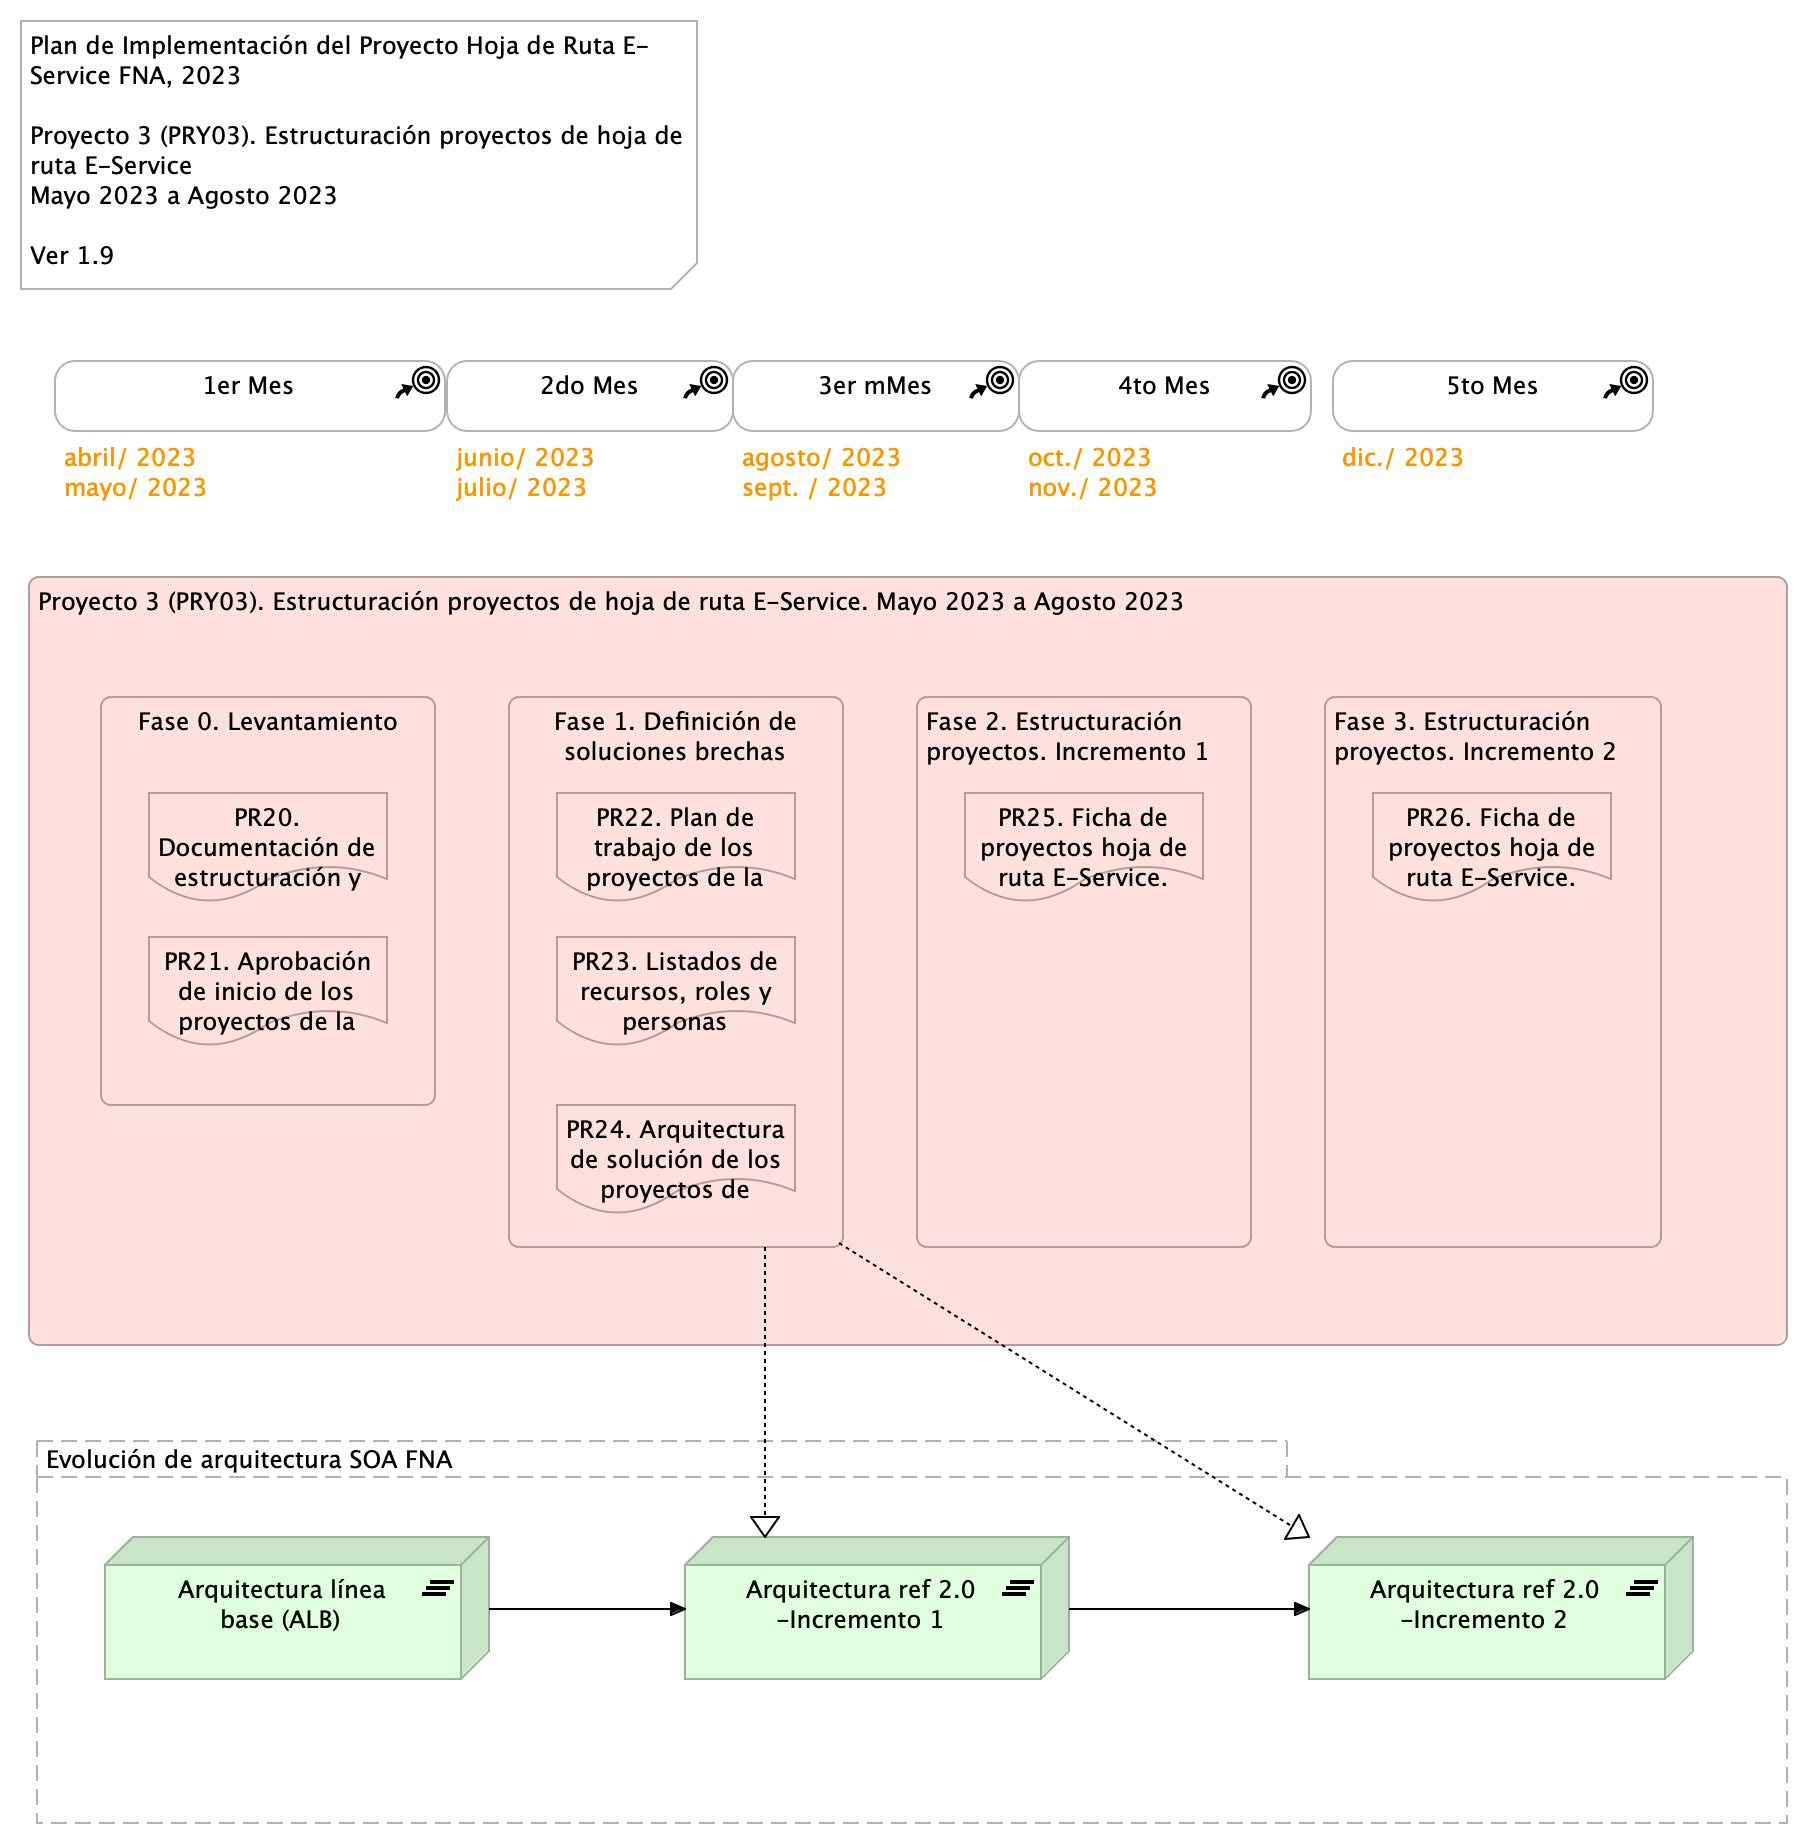
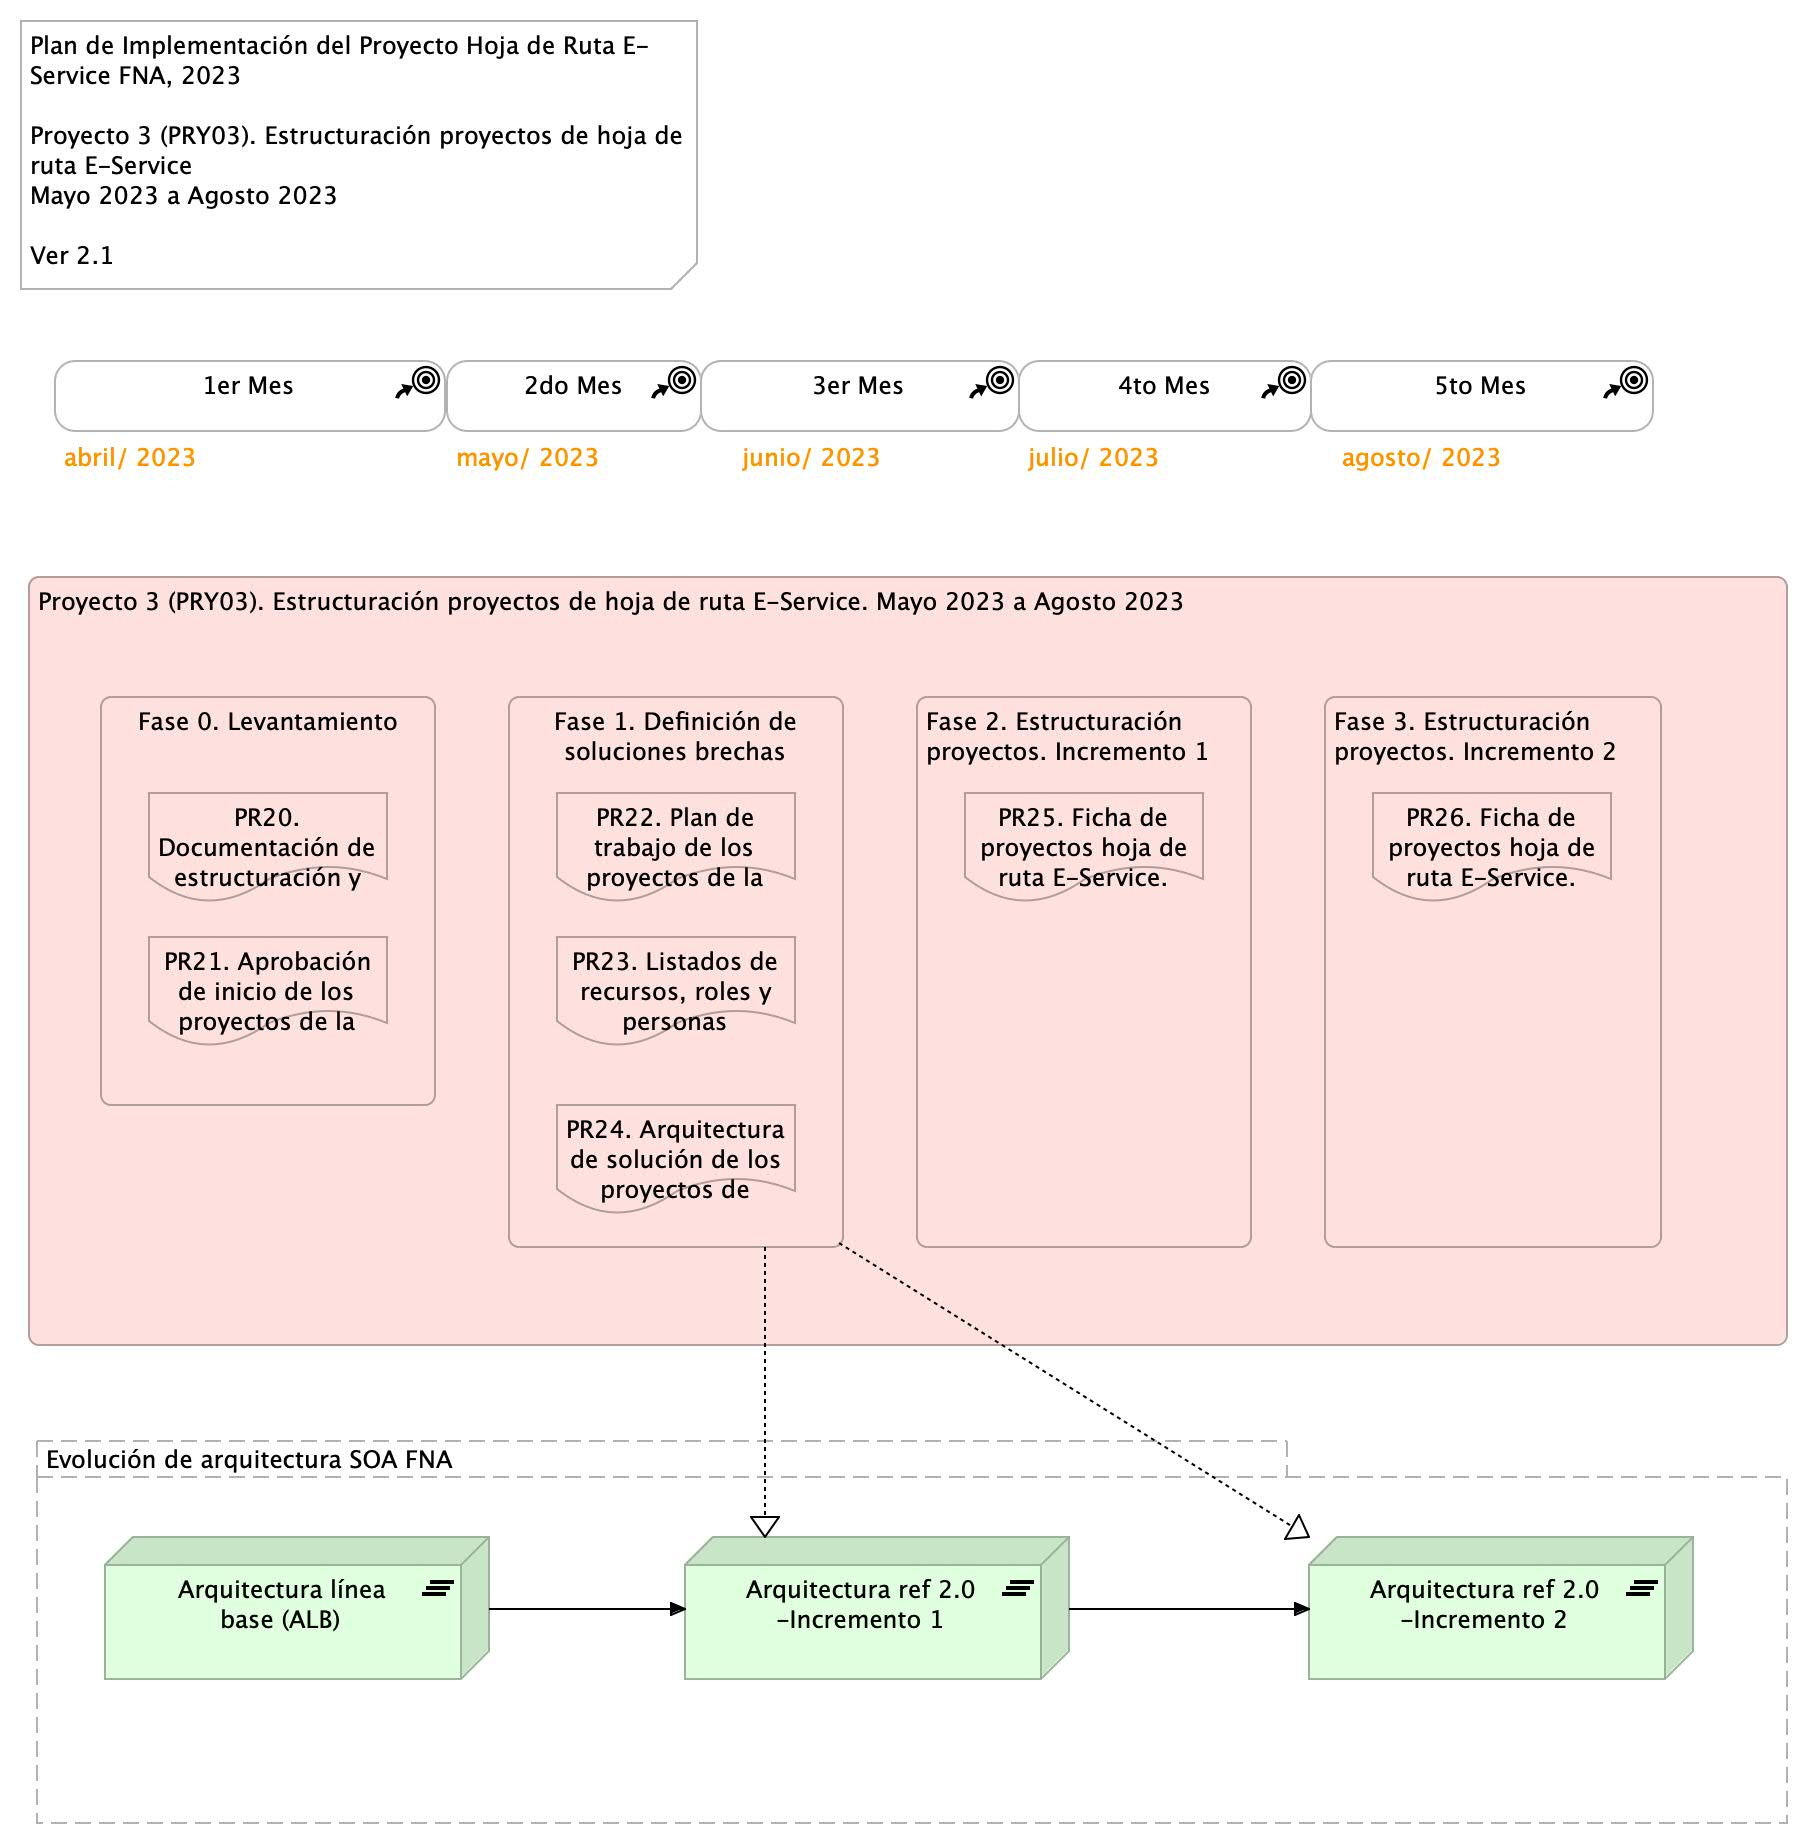
plangeneral

diff --git a/content/02d.plangeneral.md b/content/02d.plangeneral.md
@@ -11,14 +11,14 @@ La planeación general no contiene fases ni entregables. En su lugar, cada proye
 
 ![](images/plangeneral1.png)
 
-[Imagen.]() Vista de tiempo de ejecución del proyecto 01 de cierre de brecha de la hoja de ruta E-Service consignados en el alcance de esta propuesta, para el período de 5 meses, en el 2023.
+[Imagen.]() Vista de tiempo de ejecución del proyecto 01 de cierre de brecha, _PRY01. Gobierno SOA FNA_, de la hoja de ruta E-Service consignados en el alcance de esta propuesta, para el período de 5 meses, en el 2023.
 
 ![](images/plangeneral2.png)
 
-[Imagen.]() Vista de tiempo de ejecución del proyecto 02 de cierre de brecha de la hoja de ruta E-Service consignados en el alcance de esta propuesta, para el período de 5 meses, en el 2023.
+[Imagen.]() Vista de tiempo de ejecución del proyecto 02 de cierre de brecha, _PRY02. Arquitectura Referencia_, de la hoja de ruta E-Service consignados en el alcance de esta propuesta, para el período de 5 meses, en el 2023.
 
 ![](images/plangeneral3.png)
 
-[Imagen.]() Vista de tiempo de ejecución del proyecto 03 de cierre de brecha de la hoja de ruta E-Service consignados en el alcance de esta propuesta, para el período de 5 meses, en el 2023.
+[Imagen.]() Vista de tiempo de ejecución del proyecto 03 de cierre de brecha, _PRY03. Estructuración de proyectos_, de la hoja de ruta E-Service consignados en el alcance de esta propuesta, para el período de 5 meses, en el 2023.
 
 <br>
